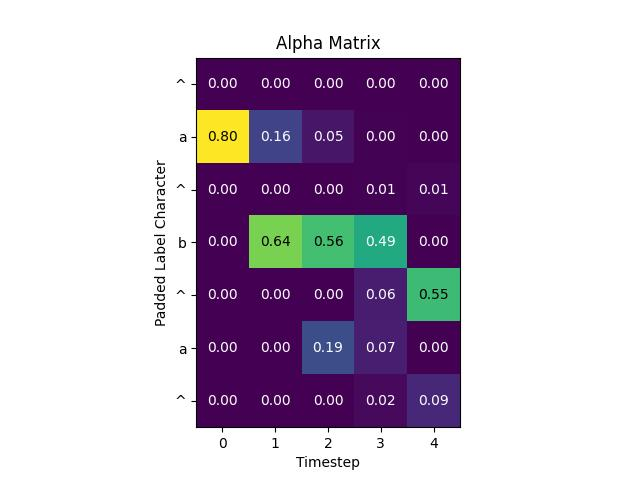
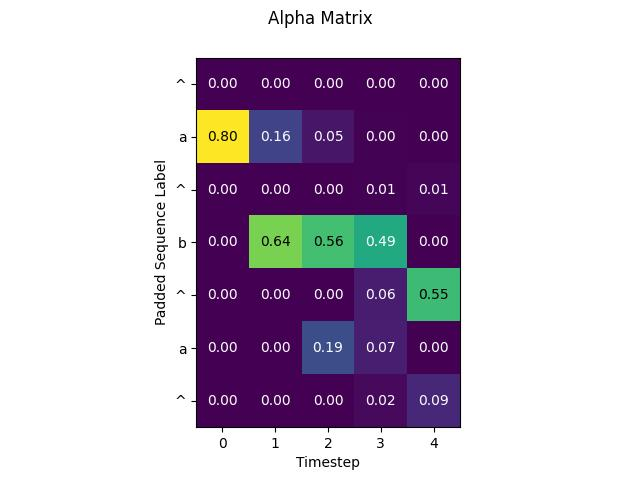
all but Q7

Changed region(s): [[0.2188, 0.3438, 0.2812, 0.6875], [0.4062, 0.0, 0.5938, 0.125]]

diff --git a/main.py b/main.py
@@ -99,34 +99,56 @@ def CTC_forward_pass(sequence, pred, alphabet_labels, blank_index, force_align=F
             alpha_tags.append(alpha_matrix[t - 1, s - 2])
         alpha_tag = max(alpha_tags) if force_align else sum(alpha_tags)
         alpha = alpha_tag * p
-        backpointer = math.argmax(alpha_tags) if force_align else None
+        backpointer = np.argmax(alpha_tags) if force_align else -1
         return alpha, backpointer
 
     for t in range(0, T):
         for s in range(0, padded_sequence_length):
             alpha_matrix[t, s], backpointers_matrix[t, s] = alpha_and_backpointer(t, s)
 
-    return alpha_matrix, backpointers_matrix
+    best_path_coordinates = []
+    best_path = []
+    if force_align:
+        timestep = T - 1
+        padded_sequence_index = padded_sequence_length - 1 if alpha_matrix[timestep, padded_sequence_length - 1] >= alpha_matrix[timestep, padded_sequence_length - 2] else padded_sequence_length - 2
+        best_path_coordinates.append((timestep, padded_sequence_index))
+        best_path.append(alphabet_labels[padded_sequence_indices[padded_sequence_index]])
+        prev = backpointers_matrix[timestep, padded_sequence_index]
+        while prev != -1:
+            timestep -= 1
+            padded_sequence_index -= prev
+            best_path_coordinates.append((timestep, padded_sequence_index))
+            best_path.append(alphabet_labels[padded_sequence_indices[padded_sequence_index]])
+            prev = backpointers_matrix[timestep, padded_sequence_index]
+        best_path_coordinates.reverse()
+        best_path.reverse()
+
+    return alpha_matrix, best_path_coordinates, best_path
 
 
-def plot_alpha_matrix(alpha_matrix, padded_sequence_labels):
-    alpha_matrix = alpha_matrix.T
-    plt.imshow(alpha_matrix, cmap='viridis', interpolation='nearest')
-    plt.title('Alpha Matrix')
+def plot_alpha_matrix(filename, title, padded_sequence_labels, alpha_matrix, best_path_coordinates=None, best_path=None):
+    alpha_matrix_T = alpha_matrix.T
+    plt.imshow(alpha_matrix_T, cmap='viridis', interpolation='nearest')
+    plt.suptitle(title)
+    if best_path is not None:
+        plt.title(' '.join(best_path))
     plt.xlabel('Timestep')
     plt.ylabel('Padded Sequence Label')
+    plt.yticks(ticks=range(len(padded_sequence_labels)), labels=padded_sequence_labels)
 
-    y_labels = [padded_sequence_labels[i] for i in range(alpha_matrix.shape[0])]
-    plt.yticks(ticks=range(len(y_labels)), labels=y_labels)
-
-    rows, cols = alpha_matrix.shape
+    rows, cols = alpha_matrix_T.shape
     for i in range(rows):
         for j in range(cols):
-            plt.text(j, i, f'{alpha_matrix[i, j]:.2f}',
+            plt.text(j, i, f'{alpha_matrix_T[i, j]:.2f}',
                      ha='center', va='center',
-                     color='white' if alpha_matrix[i, j] < 0.5 else 'black')
+                     color='white' if alpha_matrix_T[i, j] < 0.5 else 'black')
 
-    plt.savefig('alpha_matrix.jpg')
+    if best_path_coordinates is not None:
+        for (y1, x1), (y2, x2) in zip(best_path_coordinates[:-1], best_path_coordinates[1:]):
+            plt.arrow(y1, x1, y2 - y1, x2 - x1, color='red',
+                      head_width=0.2, head_length=0.2, length_includes_head=True)
+
+    plt.savefig(filename)
     plt.close()
 
 
@@ -153,7 +175,7 @@ if __name__ == '__main__':
     padded_sequence_indices = sequence_to_padded_sequence_indices(sequence, alphabet_labels, blank_index)
     padded_sequence_labels = [alphabet_labels[i] for i in padded_sequence_indices]
     #
-    alpha_matrix, _ = CTC_forward_pass(sequence, pred, alphabet_labels, blank_index)
-    plot_alpha_matrix(alpha_matrix, padded_sequence_labels)
-    alpha_matrix_force, backpointers_matrix_force = CTC_forward_pass(sequence, pred, alphabet_labels, blank_index, force_align=True)
-    plot_alpha_matrix(alpha_matrix, padded_sequence_labels)
+    alpha_matrix, _, _ = CTC_forward_pass(sequence, pred, alphabet_labels, blank_index)
+    plot_alpha_matrix('alpha_matrix.jpg', 'Alpha Matrix', padded_sequence_labels, alpha_matrix)
+    alpha_matrix_force, best_path_coordinates_force, best_path_force = CTC_forward_pass(sequence, pred, alphabet_labels, blank_index, force_align=True)
+    plot_alpha_matrix('alpha_matrix_force.jpg', 'Alpha Matrix Force Alignment', padded_sequence_labels, alpha_matrix_force, best_path_coordinates_force, best_path_force)
